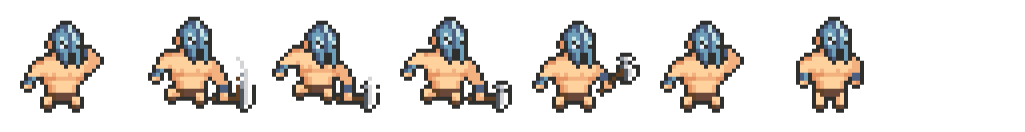
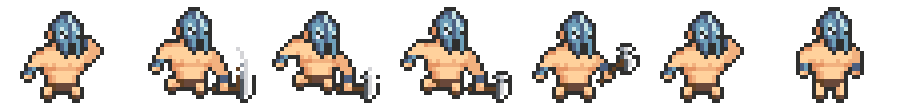
animaçao de bater, modularizaçao do codigo, e adiçao de atributos

diff --git a/jogador.py b/jogador.py
@@ -4,91 +4,125 @@ from PPlay.gameimage import *
 from PPlay.collision import *
 from PPlay.animation import *
 
-def set_animation(direita,esquerda,ataqueDireita, ataqueEsquerda, jogador):
-    for i in jogador:
-        jogador[i].hide() 
-    if direita:
-        jogador['direita'].unhide()
-    elif esquerda:
-        jogador['esquerda'].unhide()
-    elif ataqueDireita:
-        jogador['ataque-direita'].unhide()
-    elif ataqueEsquerda:
-        jogador['ataque-esquerda'].unhide()
-    else:
-        jogador['parado'].unhide()
+def set_animation(direita, esquerda, last, jogador, attacking):
+    if not(attacking):
+        for i in jogador:
+            jogador[i].hide() 
+        if direita:
+            jogador['direita'].unhide()
+        elif esquerda:
+            jogador['esquerda'].unhide()
+        elif last == 'esquerda':
+            jogador['parado-esquerda'].unhide()
+        else:
+            jogador['parado-direita'].unhide()
+
+def attack_animation(sprites, side):
+
+        for i in sprites:
+            sprites[i].hide()
+
+        if side =='direita':
+            sprites['ataque-direita'].unhide()
+            sprites['ataque-direita'].play()
+            
+        else:
+            sprites['ataque-esquerda'].unhide()
+            sprites['ataque-esquerda'].play()
 
 class Jogador():
 
-    @classmethod
-    def controles(self,jogador, janela, velX, velY, teclado, jump, a, b, c, d, e, plataformas, pe, velpeX, velpeY):
-        posInicial = jogador['direita'].x
-        last = ''
-        ##Física do pulo
-        if jogador['direita'].y > janela.height - jogador['direita'].height - 30:
+    def __init__(self, sprites, velX, velY, jump, cima, baixo, esquerda,direita, ataque):
+        self.sprites = sprites
+        self.velX = velX
+        self.velY = velY
+        self.jump = jump
+        self.controleCima = cima
+        self.controleBaixo = baixo
+        self.controleEsquerda = esquerda
+        self.controleDireita = direita
+        self.controleAtaque = ataque
+        self.last = ''
+        self.life = 5
+        self.attacking = False
+        self.cooldownAtack = 0
 
-            jump = True  
+    def controles(self, janela, teclado, plataformas, pe):
+        posInicial = self.sprites['direita'].x
+        ##Física do pulo
+        if self.sprites['direita'].y > janela.height - self.sprites['direita'].height - 30:
+
+            self.jump = True  
 
         else:
-            for i in jogador:
-                jogador[i].y -= velY * janela.delta_time()
-                pe.y -= velpeY * janela.delta_time()
-            velY-= 2000 * janela.delta_time()
-            velpeY -= 400 * janela.delta_time()
+            for i in self.sprites:
+                self.sprites[i].y -= self.velY * janela.delta_time()
+            pe.y -= self.velY * janela.delta_time()
+            self.velY-= 2000 * janela.delta_time()
            
             for plataforma in plataformas:
-                if Collision.collided(pe, plataforma) and velY < 0:   
-                    velY = 0
-                    velpeY = 0
-                    jump = True
+                #para de cair   
+                if (Collision.collided(pe, plataforma) and self.velY < 0) and not(teclado.key_pressed(self.controleBaixo)):
+                    self.velY = 0
+                    self.jump = True
 
         ##Controles
-        if teclado.key_pressed(a):
+        #CIMA
+        if teclado.key_pressed(self.controleCima):
 
-            if(jump):
+            if(self.jump):
 
-                velY = 1000
-                velpeY = 200
-                for i in jogador:
-                    jogador[i].y -= velY * janela.delta_time()
-                    pe.y -= velpeY * janela.delta_time()
+                self.velY = 1000
+                for i in self.sprites:
+                    self.sprites[i].y -= self.velY * janela.delta_time()
 
-            jump = False
+                pe.y -= self.velY * janela.delta_time()
+            self.jump = False
+        #Baixo
+        if teclado.key_pressed(self.controleBaixo):
+            self.velY-= 2000 * janela.delta_time()
+        #Esquerda    
+        if teclado.key_pressed(self.controleEsquerda) and self.sprites['direita'].x > 0:
+            self.last = 'esquerda'
 
-        if teclado.key_pressed(b):
-            velY-= 2000 * janela.delta_time()
-            velpeY -= 400 * janela.delta_time()
-            
-        if teclado.key_pressed(c) and jogador['direita'].x > 0:
-            last = 'direita'
-
-            for i in jogador:
-                jogador[i].x -= velX * janela.delta_time()
-                pe.x -= velpeX * janela.delta_time()
+            for i in self.sprites:
+                self.sprites[i].x -= self.velX * janela.delta_time()
     
-            set_animation(0,1,0,0,jogador)
+            pe.x -= self.velX * janela.delta_time()
+            set_animation(0,1,self.last,self.sprites,self.attacking)
 
-            if teclado.key_pressed(e):
-                set_animation(0,0,0,1,jogador)
+        #Direita
+        if teclado.key_pressed(self.controleDireita) and self.sprites['direita'].x < janela.width - self.sprites['direita'].width:
+            self.last = 'direita'
 
-        if teclado.key_pressed(d) and jogador['direita'].x < janela.width - jogador['direita'].width:
-            last = 'esquerda'
+            for i in self.sprites:
+                self.sprites[i].x += self.velX * janela.delta_time()
 
-            for i in jogador:
-                jogador[i].x += velX * janela.delta_time()
-                pe.x += velpeX * janela.delta_time()
+            pe.x += self.velX * janela.delta_time()
+            set_animation(1,0,self.last,self.sprites,self.attacking)
 
-            set_animation(1,0,0,0,jogador)
+        #Parado
+        if self.sprites['direita'].x == posInicial:
 
-            if teclado.key_pressed(e):
-                set_animation(0,0,1,0,jogador)
+            set_animation(0,0,self.last,self.sprites,self.attacking)
+        
+        #Ataque
+        if teclado.key_pressed(self.controleAtaque):
+            
+            if janela.time_elapsed() - self.cooldownAtack > 1000:
+                self.attacking = True           
+                attack_animation(self.sprites,self.last)
+                self.cooldownAtack = janela.time_elapsed()
+                print(self.attacking)
+        if self.sprites['ataque-direita'].get_curr_frame() == self.sprites['ataque-direita'].get_final_frame()-1:
+            self.attacking=False
+            self.sprites['ataque-direita'].stop()
+            print(self.attacking)
+        if self.sprites['ataque-esquerda'].get_curr_frame() == self.sprites['ataque-esquerda'].get_final_frame()-1:
+            self.attacking=False
+            self.sprites['ataque-esquerda'].stop()
+            print(self.attacking)
+        return
 
-        if jogador['direita'].x == posInicial:
-
-            set_animation(0,0,0,0,jogador)
-            if teclado.key_pressed(e):
-                set_animation(0,0,1,0,jogador)
-        # else:
-        #     if teclado.key_pressed(e):
-        #         set_animation(0,0,1,0,jogador)
-        return velY , jump , velpeY
+    def take_damange():
+        self.life -= 1

diff --git a/jogo.py b/jogo.py
@@ -12,33 +12,28 @@ class Jogo():
     janela.set_title("Battle of the heroes")
     teclado = Window.get_keyboard()
 
-    jogador1 = {'direita' : Sprite("Assets/Jogador1/corrida-direita1.png", 8), 'esquerda' :Sprite("Assets/Jogador1/corrida-esquerda1.png", 8), 'parado' :Sprite("Assets/Jogador1/parado1.png",5), 'ataque-direita' :Sprite("Assets/Jogador1/ataque-direita-azul (1).png", 7), 'ataque-esquerda' :Sprite("Assets/Jogador1/Ataque-esquerda1.png", 7)}
-    for i in jogador1:
-        jogador1[i].set_position(20,janela.height - jogador1[i].height - 30)
-        jogador1[i].set_total_duration(1000)
+    sprites1 = {'direita' : Sprite("Assets/Jogador1/corrida-direita.png", 8), 'esquerda' :Sprite("Assets/Jogador1/corrida-esquerda.png", 8), 'parado-direita' :Sprite("Assets/Jogador1/parado-direita.png",5),'parado-esquerda': Sprite("Assets/Jogador1/parado-esquerda.png",5), 'ataque-direita' :Sprite("Assets/Jogador1/ataque-direita.png", 7), 'ataque-esquerda' :Sprite("Assets/Jogador1/ataque-esquerda.png", 7)}
+    for i in sprites1:
+        sprites1[i].set_position(20,janela.height - sprites1[i].height - 30)
+        if i != 'ataque-direita' and i != 'ataque-esquerda':
+            sprites1[i].set_total_duration(1000)
+        else:
+            sprites1[i].set_total_duration(300)
+    
+    sprites2 = {'direita' : Sprite("Assets/Jogador2/Corrida-direita.png", 8), 'esquerda' :Sprite("Assets/Jogador2/Corrida-esquerda.png", 8), 'parado-direita' :Sprite("Assets/Jogador2/parado-direita.png",5),'parado-esquerda': Sprite("Assets/Jogador2/parado-esquerda.png",5), 'ataque-direita' :Sprite("Assets/Jogador2/ataque-direita.png", 7), 'ataque-esquerda' :Sprite("Assets/Jogador2/ataque-esquerda.png", 7)}
+    for i in sprites2:
+        sprites2[i].set_position(janela.width-sprites2[i].width-20,janela.height - sprites2[i].height - 30)
+        sprites2[i].set_total_duration(1000)
 
-    jogador2 = {'direita' : Sprite("Assets/Jogador2/Corrida-direita.png", 8), 'esquerda' :Sprite("Assets/Jogador2/Corrida-esquerda.png", 8), 'parado' :Sprite("Assets/Jogador2/Parado.png",5), 'ataque-direita' :Sprite("Assets/Jogador2/Ataque-direita.png", 7), 'ataque-esquerda' :Sprite("Assets/Jogador2/Ataque-esquerda.png", 7)}
-    for i in jogador2:
-        jogador2[i].set_position(janela.width-jogador2[i].width-20,janela.height - jogador2[i].height - 30)
-        jogador2[i].set_total_duration(1000)
-
-    pe = Sprite("Assets/pad2.png", 1)
-    pe2 = Sprite("Assets/pad2.png", 1)
+    pe = Sprite("Assets/pe_jogador.png", 1)
+    pe2 = Sprite("Assets/pe_jogador.png", 1)
     pe.set_position(66,janela.height - pe.height - 33)
-    pe2.set_position(janela.width-pe.width-66,janela.height - pe.height - 45)
+    pe2.set_position(janela.width-pe.width-66,janela.height - pe.height - 33)
 
-    jump1 = True
-    jump2 = True
     fundo = GameImage("Assets/torcida2.jpg")
 
-    velX = 450
-    velY = 0
-    velX2= 450
-    velY2 = 0
-    velpeX = 90
-    velpeY = 0
-    velpeX2 = 90
-    velpeY2 = 0
+    jogador1 = Jogador(sprites1,450,0,True,"w","s","a","d","space")
+    jogador2 = Jogador(sprites2,450,0,True,"up","down","left","right","enter")
 
     plataforma = GameImage("Assets/plataformaPequena.png")
     plataforma2 = GameImage("Assets/plataformaMedia.png")
@@ -47,12 +42,10 @@ class Jogo():
     plataforma2.set_position(640 - (plataforma2.width/2),janela.height - plataforma2.height - 325)
     plataforma3.set_position(janela.width - 320, janela.height - plataforma3.height - 175)
     
-    chao1 = GameImage("Assets/chao-plataformaPequena.png")
-    chao2 = GameImage("Assets/chao-plataformaPequena.png")
-    chao3 = GameImage("Assets/chao-plataformaMedia.png")
-    chao1.set_position(150,janela.height - plataforma.height- 175)
-    chao2.set_position(janela.width - 320, janela.height - plataforma.height- 175)
-    chao3.set_position(640 - (plataforma2.width/2),janela.height - plataforma2.height - 325)
+    plataformas= [GameImage("Assets/chao-plataformaPequena.png"),GameImage("Assets/chao-plataformaMedia.png"),GameImage("Assets/chao-plataformaPequena.png")]
+    plataformas[0].set_position(150,janela.height - plataforma.height- 175)
+    plataformas[1].set_position(640 - (plataforma2.width/2),janela.height - plataforma2.height - 325)
+    plataformas[2].set_position(janela.width - 320, janela.height - plataforma.height- 175)
     
     cont = 0
     fps = 0
@@ -61,24 +54,26 @@ class Jogo():
         ##FPS
         cont += janela.delta_time()
         fps += 1
-        ##Atualizaçao jogadores
-        velY ,jump1, velpeY= Jogador.controles(jogador1, janela, velX, velY, teclado, jump1, "w","s","a","d","space", [chao1, chao2, chao3],pe,velpeX,velpeY)
-        velY2 ,jump2, velpeY2= Jogador.controles(jogador2, janela, velX2, velY2, teclado, jump2, "up","down","left","right","enter",[chao1, chao2, chao3],pe2,velpeX2,velpeY2)
         if cont>1:
             atual= fps
             cont=0
             fps=0
+        ##Atualizaçao jogadores
+        jogador1.controles( janela, teclado, plataformas, pe)
+        jogador2.controles( janela, teclado, plataformas, pe2)
+
+        # if jogador1.attacking and Collision.collided(jogador1.sprites,jogador2.sprites):
+        #     jogador2.take_damange()
         ##Draws
         fundo.draw()
         janela.draw_text(f"FPS:{atual}", 10, 10, size=40, color=(255,255,255), font_name= 'Segoe UI', bold=False, italic=False)
         plataforma.draw()
         plataforma2.draw()
         plataforma3.draw()
-        for i in jogador1:
-            jogador1[i].draw()
-            jogador1[i].update()
-        for i in jogador2:
-            jogador2[i].draw()
-            jogador2[i].update()
-        
+        for i in jogador1.sprites:
+            jogador1.sprites[i].draw()
+            jogador1.sprites[i].update()
+        for i in jogador2.sprites:
+            jogador2.sprites[i].draw()
+            jogador2.sprites[i].update()
         janela.update()
